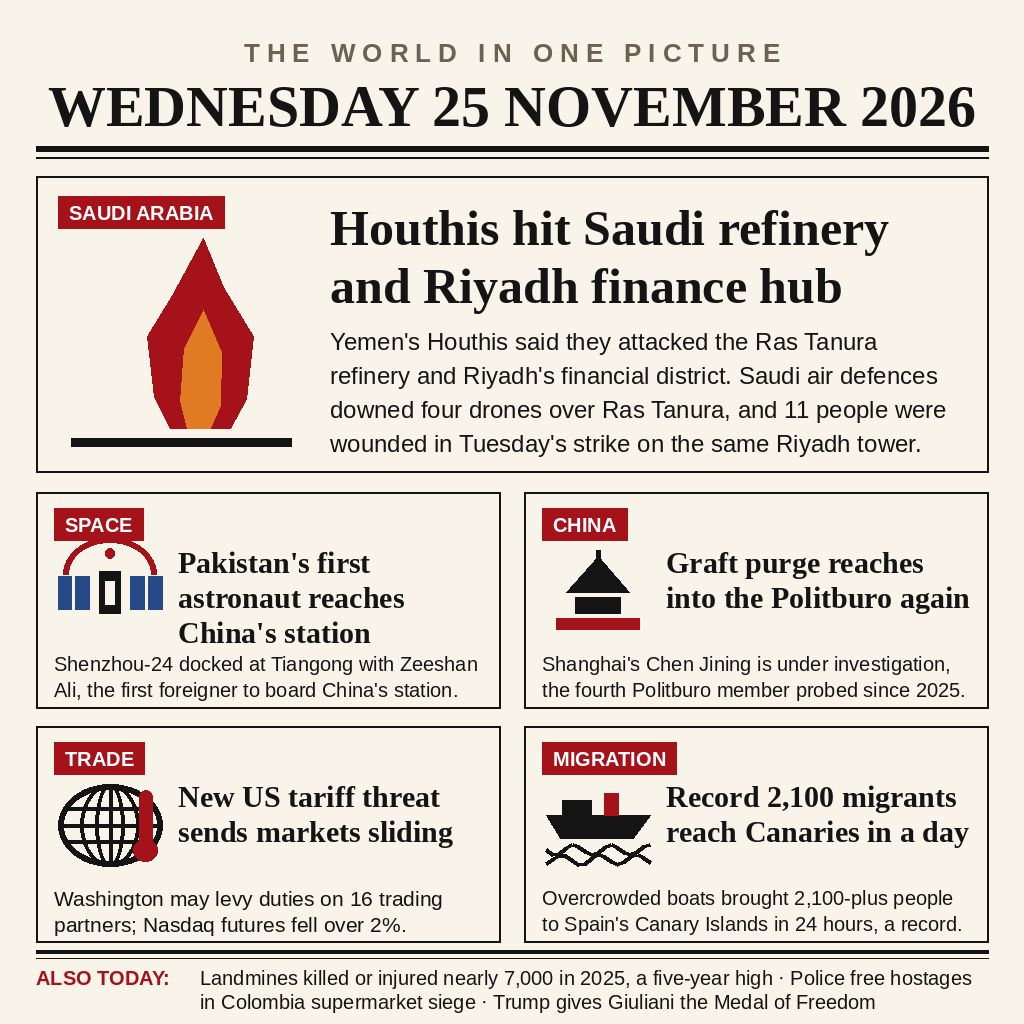
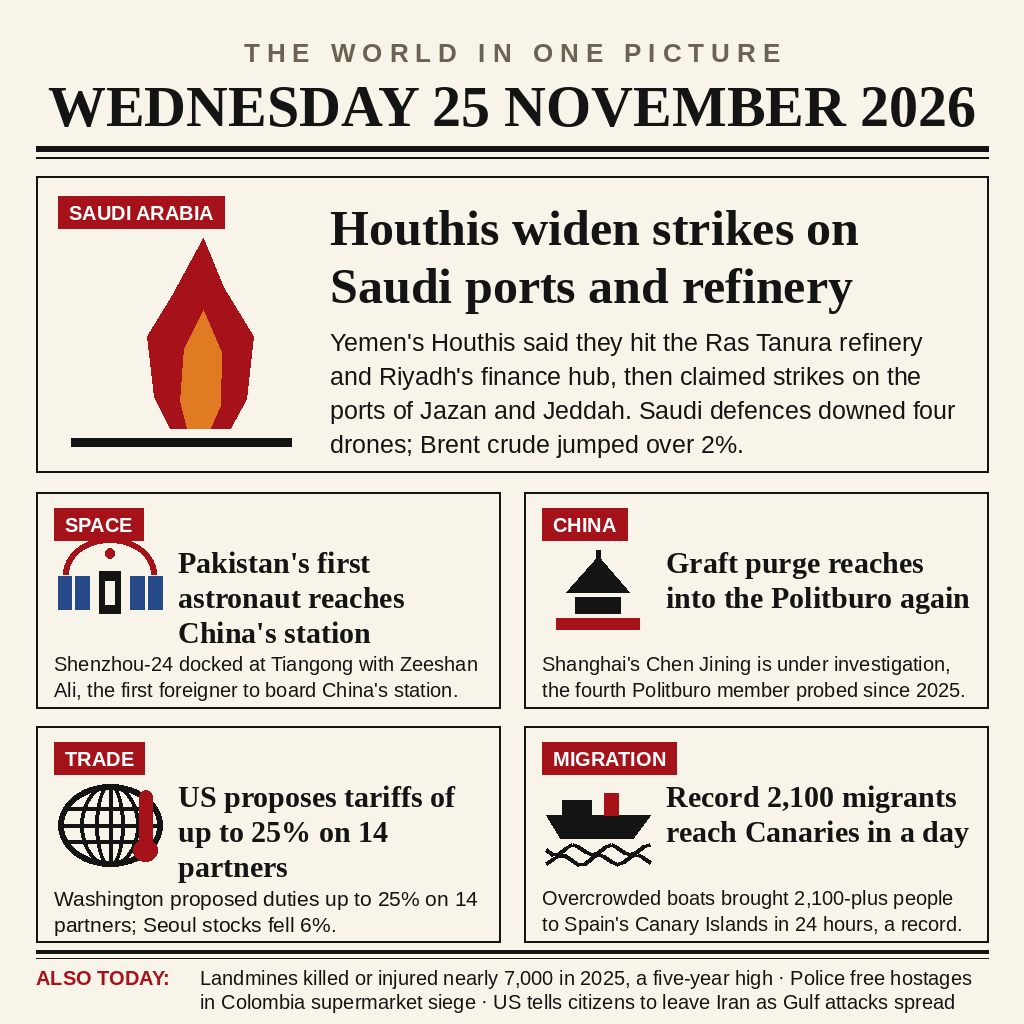
Add files via upload

Changed region(s): [[0.3125, 0.1875, 0.9375, 0.4688], [0.125, 0.75, 0.4375, 0.9062], [0.4688, 0.9688, 0.9375, 1.0]]

diff --git a/main.ts b/main.ts
@@ -28,7 +28,7 @@ for (const name of readdirSync(here).sort()) {
   }
 }
 console.log(`entry.png sha256: ${fingerprint(join(here, "entry.png"))}`);
-console.log("lead: Houthis hit Saudi refinery and Riyadh finance hub");
+console.log("lead: Houthis widen strikes on Saudi ports and refinery");
 console.log("cards: Pakistan's first astronaut at China's station; graft purge");
-console.log("       reaches the Politburo; US tariff threat slides markets;");
-console.log("       record 2,100 migrants reach the Canaries in a day");
+console.log("       reaches the Politburo; US proposes tariffs up to 25% on 14");
+console.log("       partners; record 2,100 migrants reach the Canaries in a day");

diff --git a/day25.py b/day25.py
@@ -3,6 +3,13 @@
 # Every item below was reported on 25 November 2026 itself; the poster is a
 # one-picture digest of that single day, not a week-in-review. Sources are
 # the day's wire reporting (Reuters unless noted in the README).
+#
+# Final edition: the evening wires widened the lead story -- after the
+# morning Ras Tanura claim the Houthis also said they hit the ports of
+# Jazan and Jeddah, a projectile landed at Jazan port, and Brent crude
+# jumped over 2%. The tariff card now carries the evening USTR detail
+# (14 partners, up to 25%), and the strip swaps the Giuliani brief for
+# the US warning to citizens to leave Iran.
 
 KICKER = "THE WORLD IN ONE PICTURE"
 DATELINE = "WEDNESDAY 25 NOVEMBER 2026"
@@ -11,12 +18,12 @@ DATELINE = "WEDNESDAY 25 NOVEMBER 2026"
 LEAD = {
     "tag": "SAUDI ARABIA",
     "icon": "flame",
-    "title": "Houthis hit Saudi refinery and Riyadh finance hub",
+    "title": "Houthis widen strikes on Saudi ports and refinery",
     "body": (
-        "Yemen's Houthis said they attacked the Ras Tanura refinery and "
-        "Riyadh's financial district. Saudi air defences downed four drones "
-        "over Ras Tanura, and 11 people were wounded in Tuesday's strike on "
-        "the same Riyadh tower."
+        "Yemen's Houthis said they hit the Ras Tanura refinery and "
+        "Riyadh's finance hub, then claimed strikes on the ports of "
+        "Jazan and Jeddah. Saudi defences downed four drones; Brent "
+        "crude jumped over 2%."
     ),
 }
 
@@ -43,10 +50,10 @@ CARDS = [
     {
         "tag": "TRADE",
         "icon": "globe",
-        "title": "New US tariff threat sends markets sliding",
+        "title": "US proposes tariffs of up to 25% on 14 partners",
         "body": (
-            "Washington may levy duties on 16 trading partners; Nasdaq "
-            "futures fell over 2%."
+            "Washington proposed duties up to 25% on 14 partners; Seoul "
+            "stocks fell 6%."
         ),
     },
     {
@@ -64,5 +71,5 @@ CARDS = [
 STRIP = [
     "Landmines killed or injured nearly 7,000 in 2025, a five-year high",
     "Police free hostages in Colombia supermarket siege",
-    "Trump gives Giuliani the Medal of Freedom",
+    "US tells citizens to leave Iran as Gulf attacks spread",
 ]

diff --git a/README.md b/README.md
@@ -9,14 +9,15 @@ newspaper front page: a lead story, four cards and a strip of briefs.
 Entry for the [news-image-20261125 bounty](https://make.fun/bounty/news-image-20261125)
 on make.fun.
 
-**Lead — Saudi Arabia.** Yemen's Houthis said they attacked the Ras Tanura
-refinery and Riyadh's financial district; Saudi air defences downed four
-drones and 11 people were wounded.
+**Lead — Saudi Arabia.** Yemen's Houthis said they hit the Ras Tanura
+refinery and Riyadh's financial district, then claimed strikes on the
+ports of Jazan and Jeddah; Saudi air defences downed four drones over
+Ras Tanura and Brent crude jumped over 2%.
 
 **Cards.** Shenzhou-24 docked at Tiangong carrying Zeeshan Ali, the first
 foreigner to board China's station · Shanghai party chief Chen Jining is
-under investigation in the graft purge · Washington's tariff threat against
-16 trading partners sent Nasdaq futures down over 2% · a record 2,100-plus
+under investigation in the graft purge · Washington proposed duties of up
+to 25% on 14 trading partners and Seoul stocks fell 6% · a record 2,100-plus
 migrants reached Spain's Canary Islands in a single day.
 
 **Also today.** Landmine casualties hit a five-year high in 2025 · hostages
